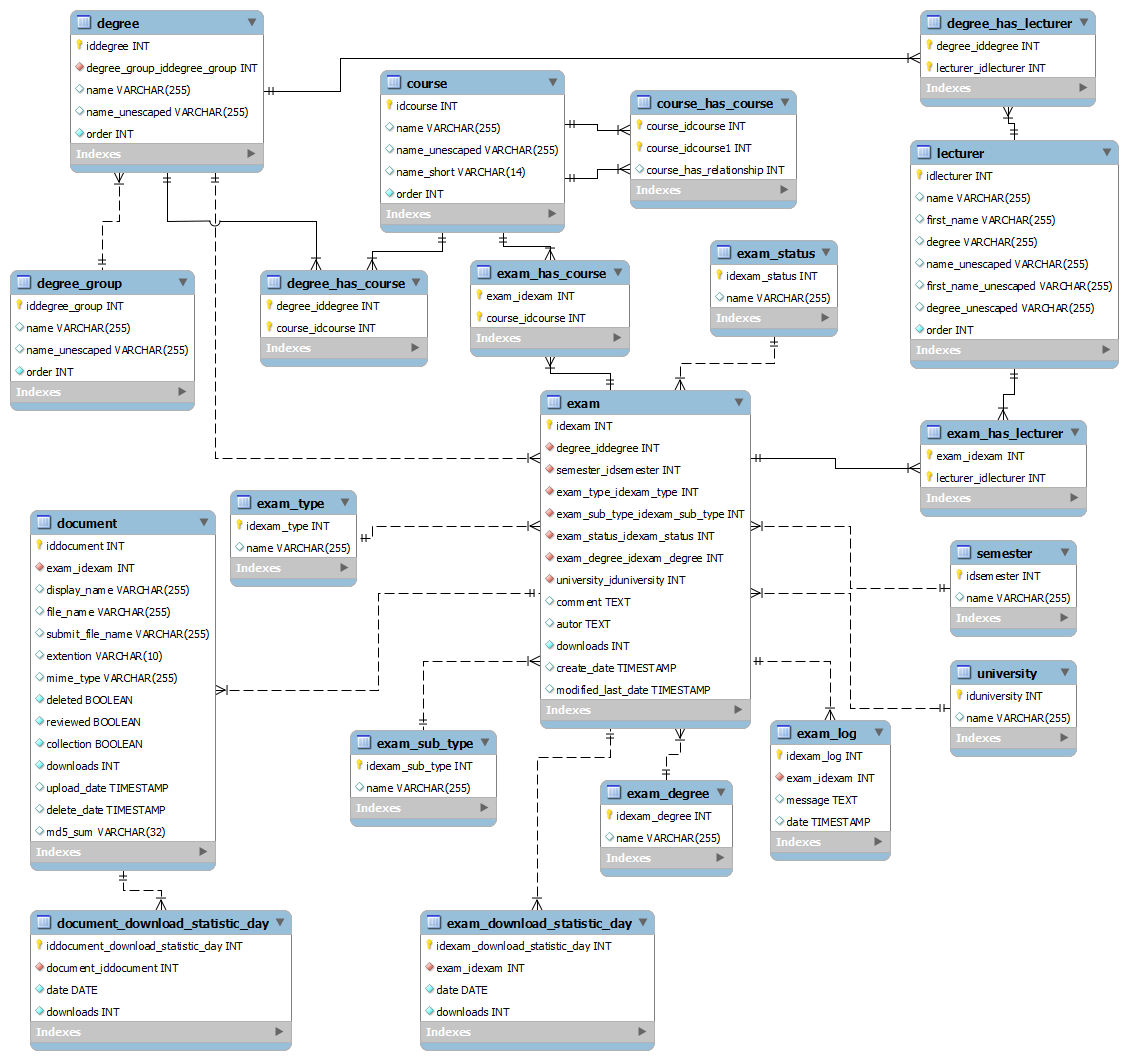
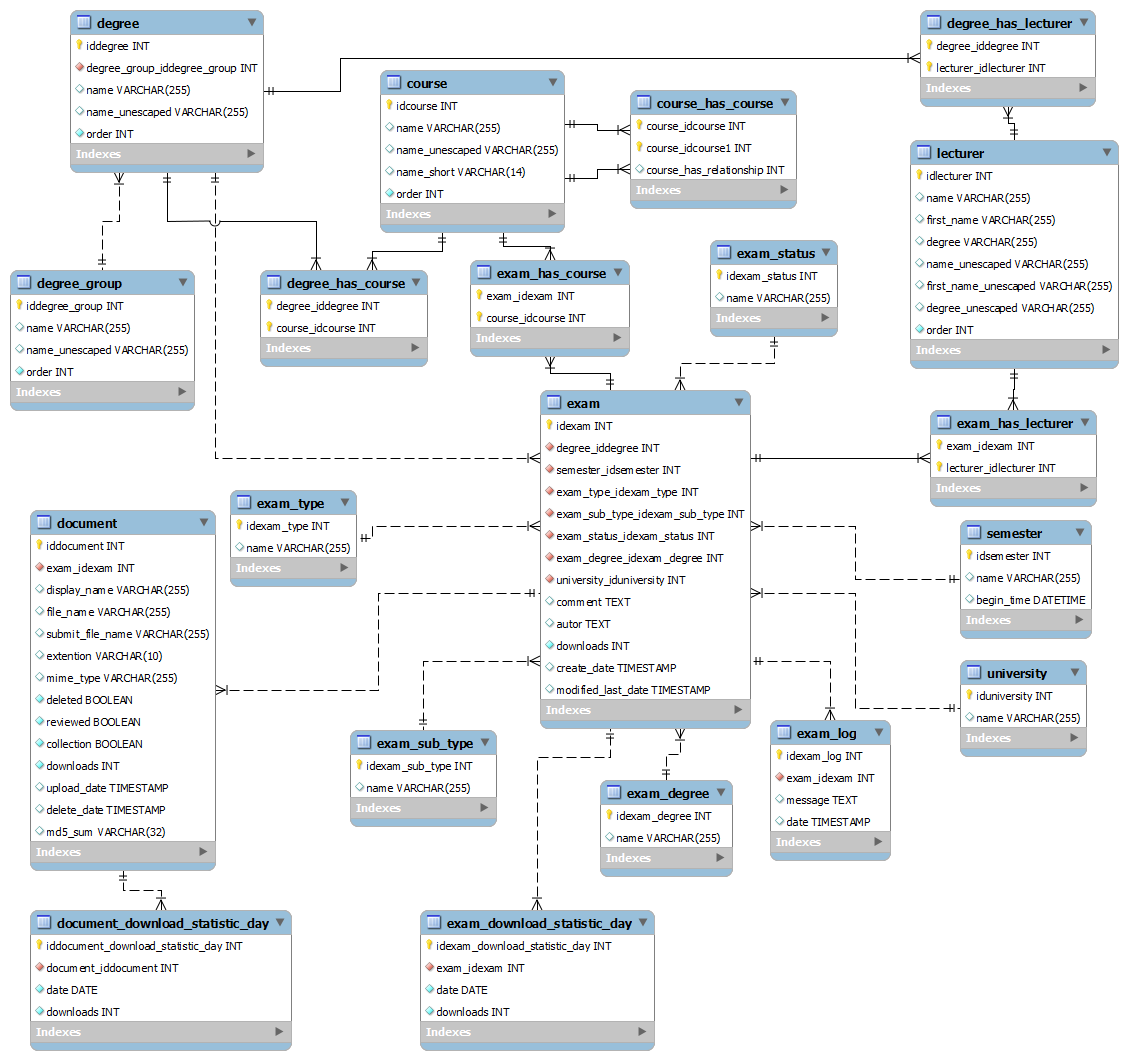
adding new semester on upload form fix #18

Changed region(s): [[0.8067, 0.3736, 0.9929, 0.716]]

diff --git a/application/controllers/ExamsController.php b/application/controllers/ExamsController.php
@@ -315,6 +315,10 @@ public function degreesAction() {
 		$step = 1;
 		
 		if (isset ( $this->getRequest ()->degree )) {
+			// check if the current time has past the last semester
+			$semesterMapper = new Application_Model_SemesterMapper();
+			$semesterMapper->checkFuthereSemesterExists();
+			
 			$step = 2;
 			$form = new Application_Form_UploadDetail ();
 			$form->setCourseOptions (new Application_Model_Degree(array('id'=>$this->getRequest ()->degree )));
